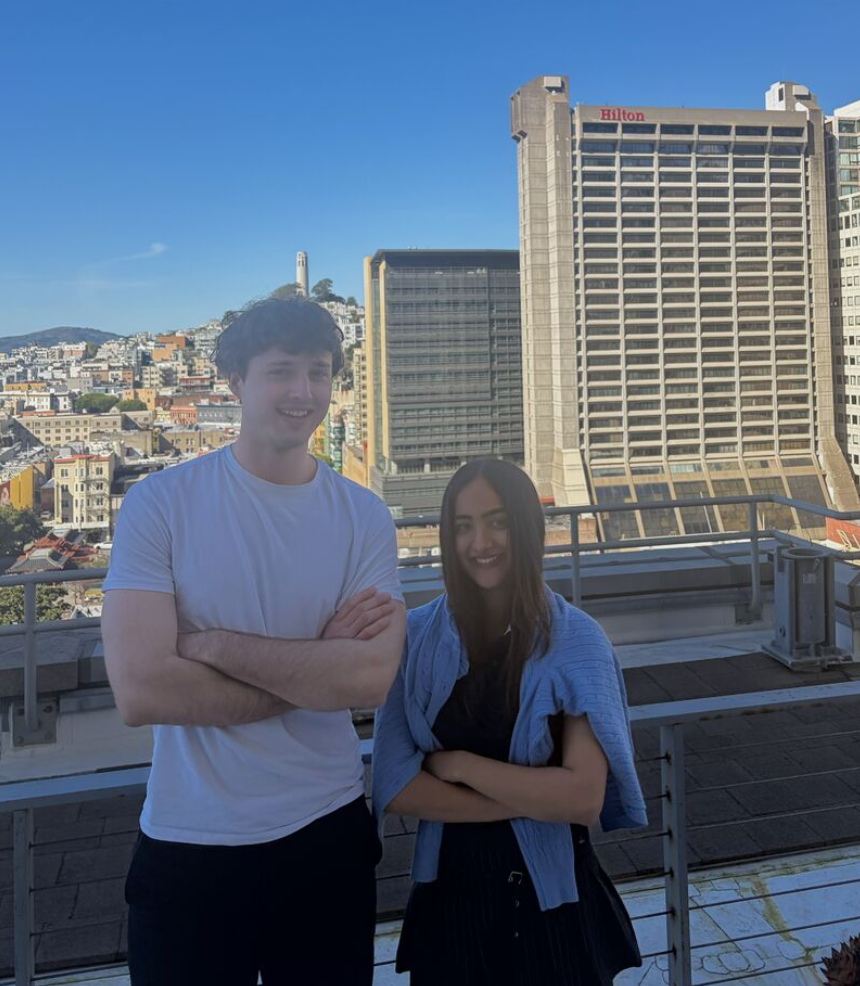
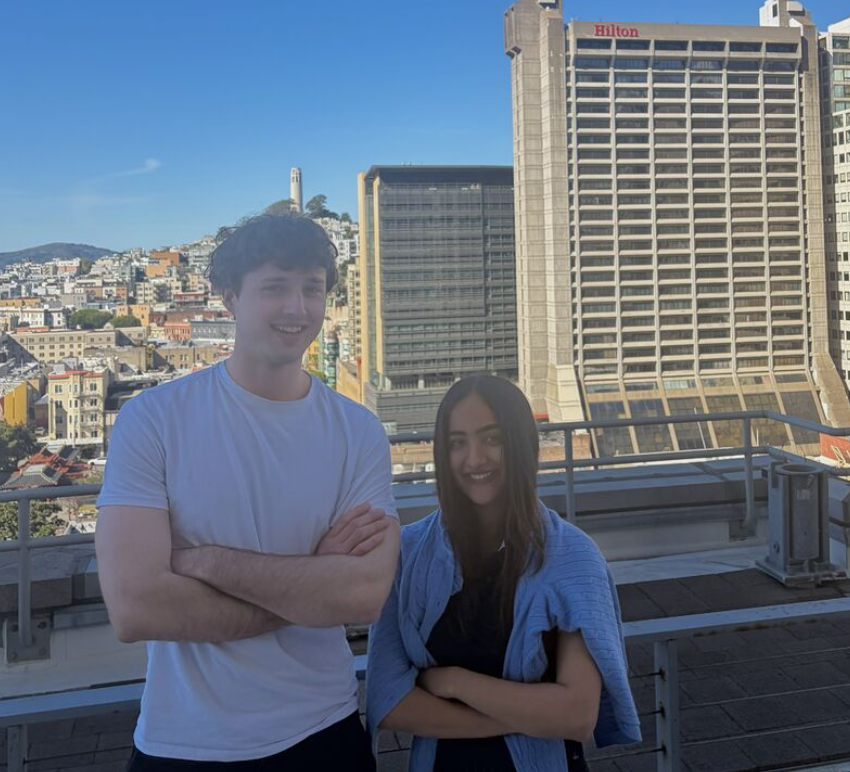
JumboVentures: move Jesse/Zoe line to pic 1, replace pic 3 with edited version, update pic 4 caption

diff --git a/js/projects-data.js b/js/projects-data.js
@@ -74,12 +74,14 @@ const PROJECTS = [
     gallery: [
       {
         image: "assets/jv1.png",
-        text: ["Hosted 5+ podcast-style fireside chats with Alumni:"]
+        text: [
+          "Hosted 5+ podcast-style fireside chats with Alumni:",
+          "Jesse Zhang, Co-Founder @ Beacons AI. Zoe Watson, Co-Founder @ Microvitality."
+        ]
       },
       {
         image: "assets/jv2.png",
         text: [
-          "Jesse Zhang, Co-Founder @ Beacons AI. Zoe Watson, Co-Founder @ Microvitality.",
           "Hani Azzam, VC Partner. Katy Nelson, Ex-A16z. Steve Kaufer, CEO @ Tripadvisor."
         ]
       },
@@ -91,7 +93,7 @@ const PROJECTS = [
       {
         image: "assets/jv4.png",
         url: "https://www.linkedin.com/feed/update/urn:li:activity:7452822623039852544/",
-        text: ["Generated awareness and event attendance across other Boston schools."]
+        text: ["Increasing awareness and event attendance across other Boston schools."]
       }
     ]
   },
